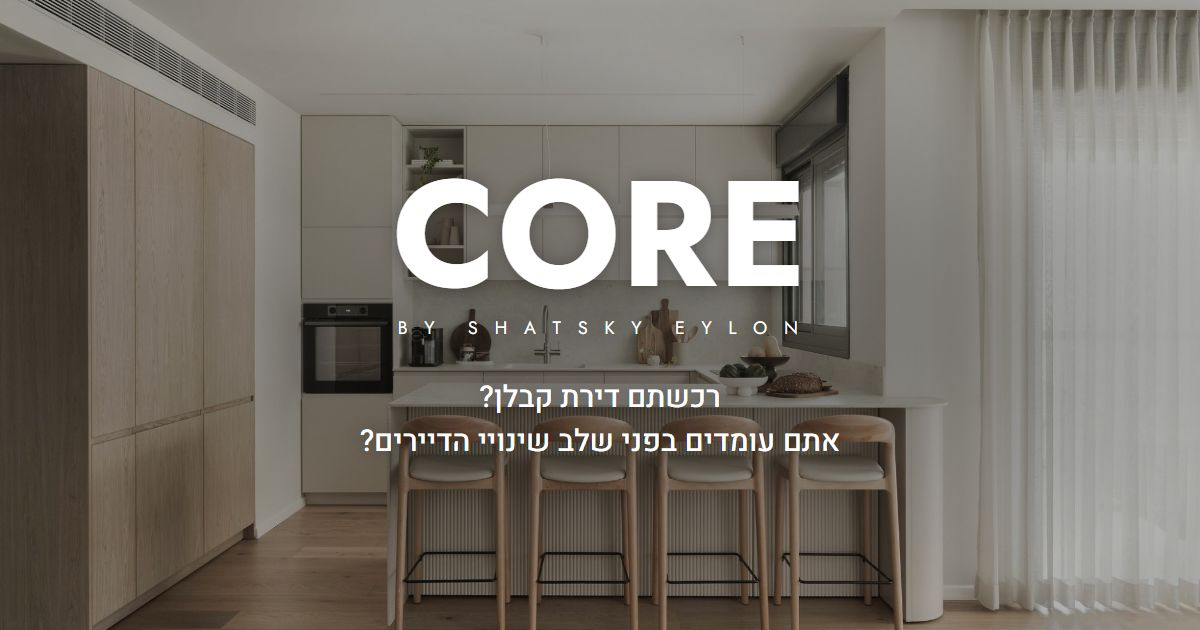
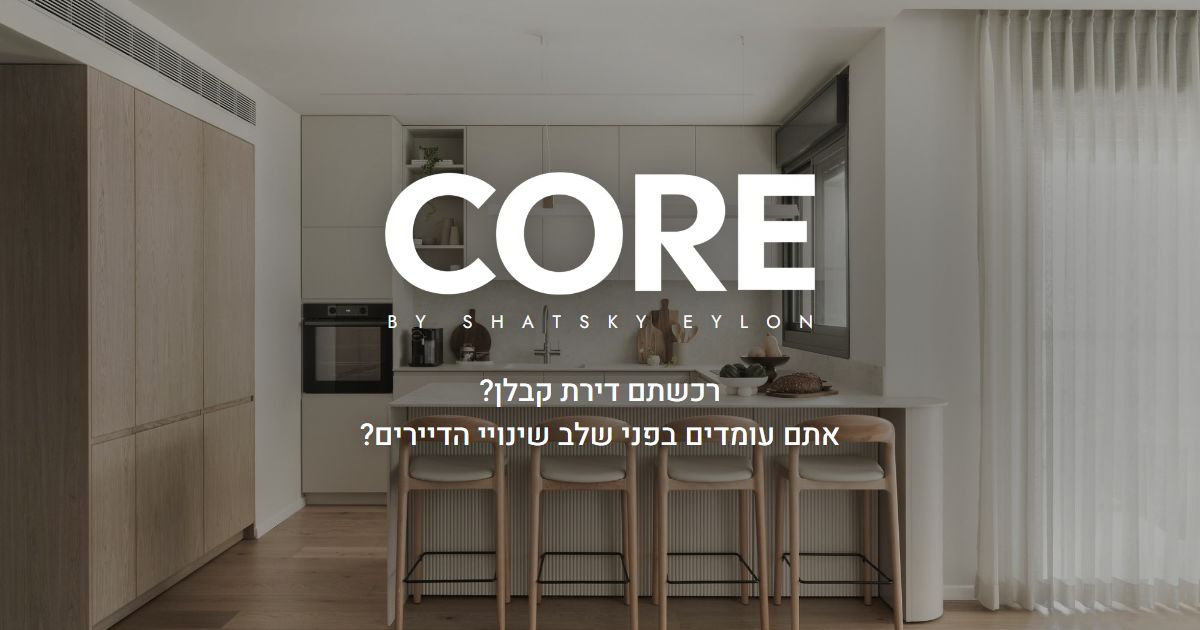
Hero: use the studio CORE wordmark artwork in white, byline fitted to it; share image to match

Changed region(s): [[0.3083, 0.2714, 0.6783, 0.5429], [0.2775, 0.6032, 0.7092, 0.7238]]

diff --git a/index.html b/index.html
@@ -94,10 +94,11 @@ h3{font-size:21px;letter-spacing:-.2px;margin-bottom:8px}
 .hero .core-logo{text-shadow:0 1px 3px rgba(0,0,0,.3),0 2px 26px rgba(0,0,0,.35)}
 .hero .wrap{position:relative}
 .core-logo{display:inline-flex;flex-direction:column;align-items:center;direction:ltr;line-height:1}
-.core-logo .w{font-family:var(--label);font-weight:700;font-size:clamp(80px,10vw,140px);line-height:.9}
+/* the CORE wordmark is the studio artwork itself, cropped tight to the letters */
+.core-logo .w{display:block;width:clamp(240px,27vw,400px);height:auto;filter:drop-shadow(0 2px 18px rgba(0,0,0,.28))}
 .core-logo .by{font-family:var(--label);font-size:clamp(15px,1.5vw,20px);letter-spacing:.1em;margin-top:clamp(12px,1.3vw,18px)}
 /* the byline spans the visible letters of CORE, inset by the side bearings of C and E */
-.core-logo .se{align-self:stretch;margin-left:1.3%;margin-right:2.4%;display:flex;justify-content:space-between;font-family:var(--label);font-weight:400;font-size:clamp(12px,1.25vw,17px);margin-top:clamp(14px,1.5vw,20px)}
+.core-logo .se{align-self:stretch;margin-inline:.5%;display:flex;justify-content:space-between;font-family:var(--label);font-weight:400;font-size:clamp(12px,1.25vw,17px);margin-top:clamp(14px,1.5vw,20px)}
 .hero .q{margin-top:clamp(28px,3.6vw,48px);font-size:clamp(17px,1.7vw,21px);font-weight:300;color:rgba(255,255,255,.9)}
 .hero .q span{display:block}
 /* the opening question: two bold lines at one size, readable on the photo */
@@ -288,7 +289,7 @@ fbq("track","PageView");
   <div class="shade"></div>
   <div class="wrap">
     <div class="core-logo" role="img" aria-label="CORE by Shatsky Eylon">
-      <span class="w">CORE</span>
+      <img class="w" src="assets/core-logo-white.png" alt="" width="701" height="202">
       <span class="se" aria-hidden="true"><span>B</span><span>Y</span><span></span><span>S</span><span>H</span><span>A</span><span>T</span><span>S</span><span>K</span><span>Y</span><span></span><span>E</span><span>Y</span><span>L</span><span>O</span><span>N</span></span>
     </div>
     <p class="q"><span>רכשתם דירת קבלן?</span><span>אתם עומדים בפני שלב שינויי הדיירים?</span></p>
